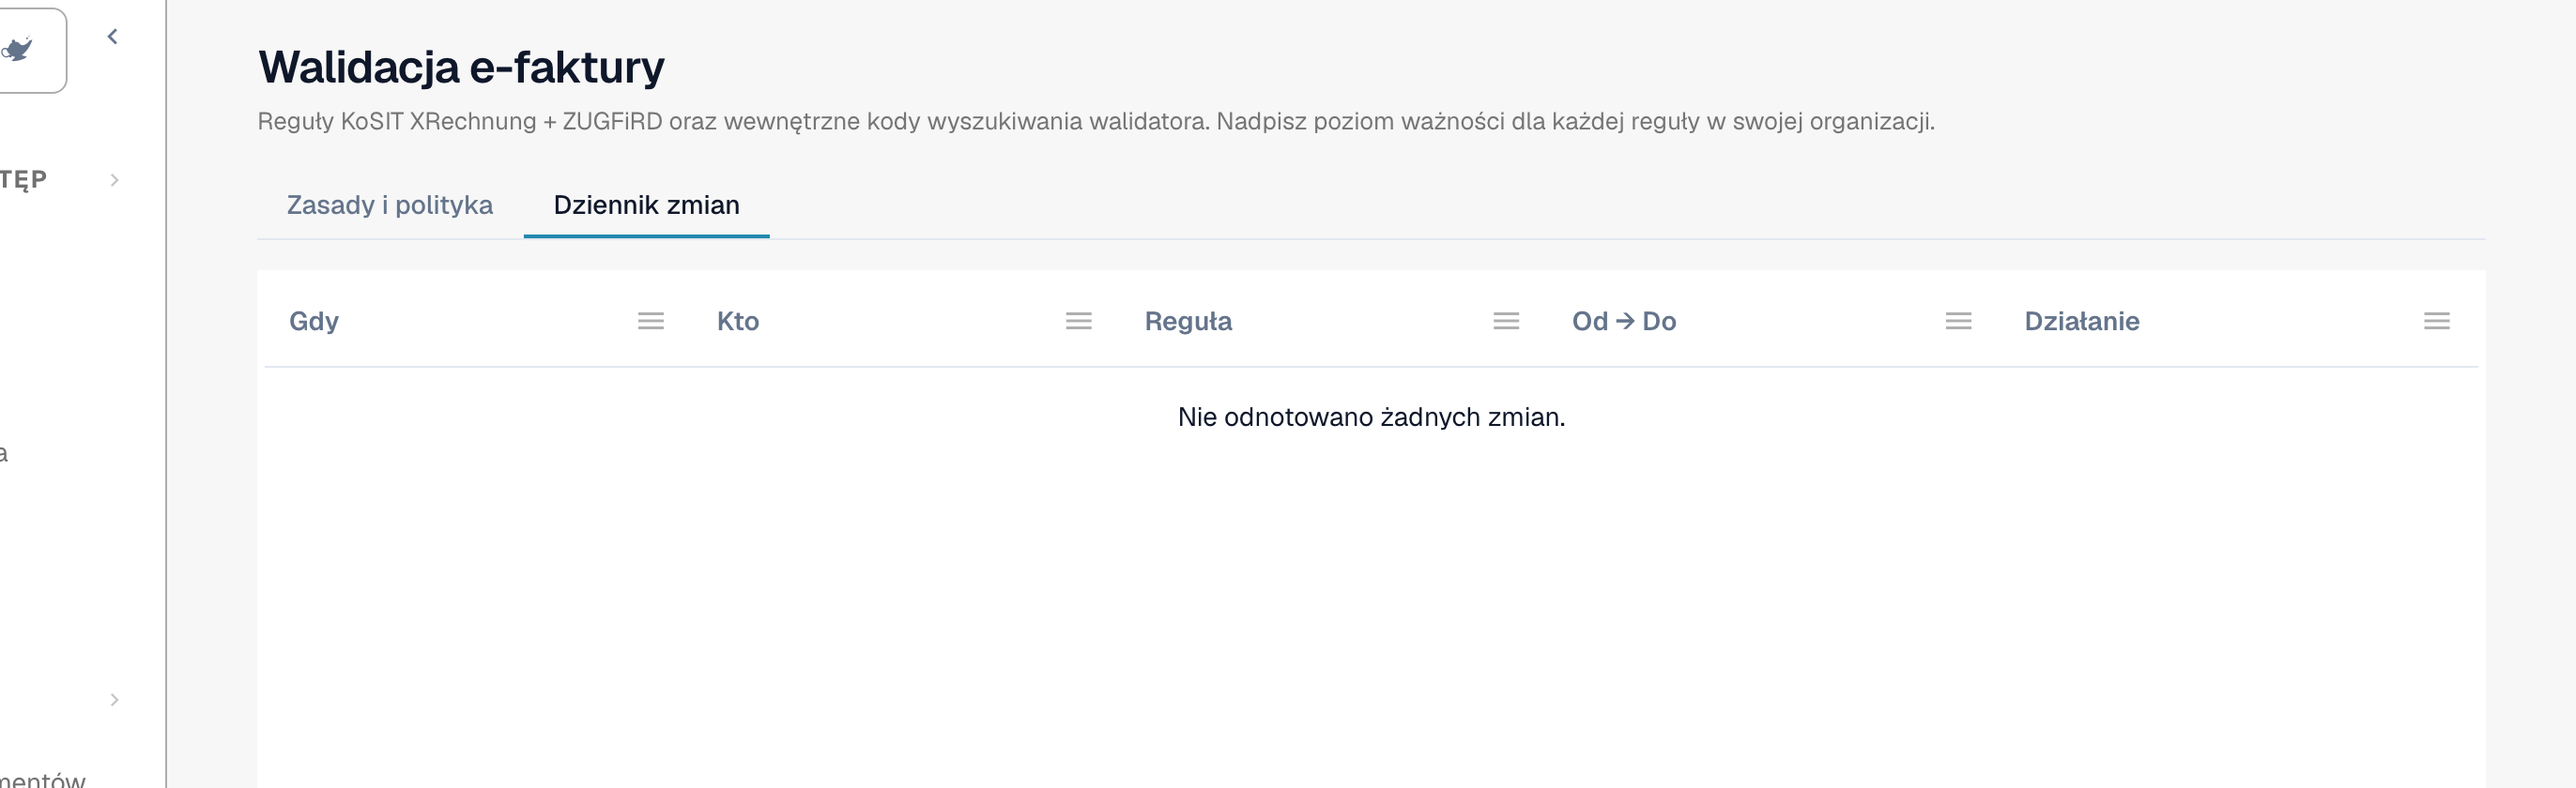
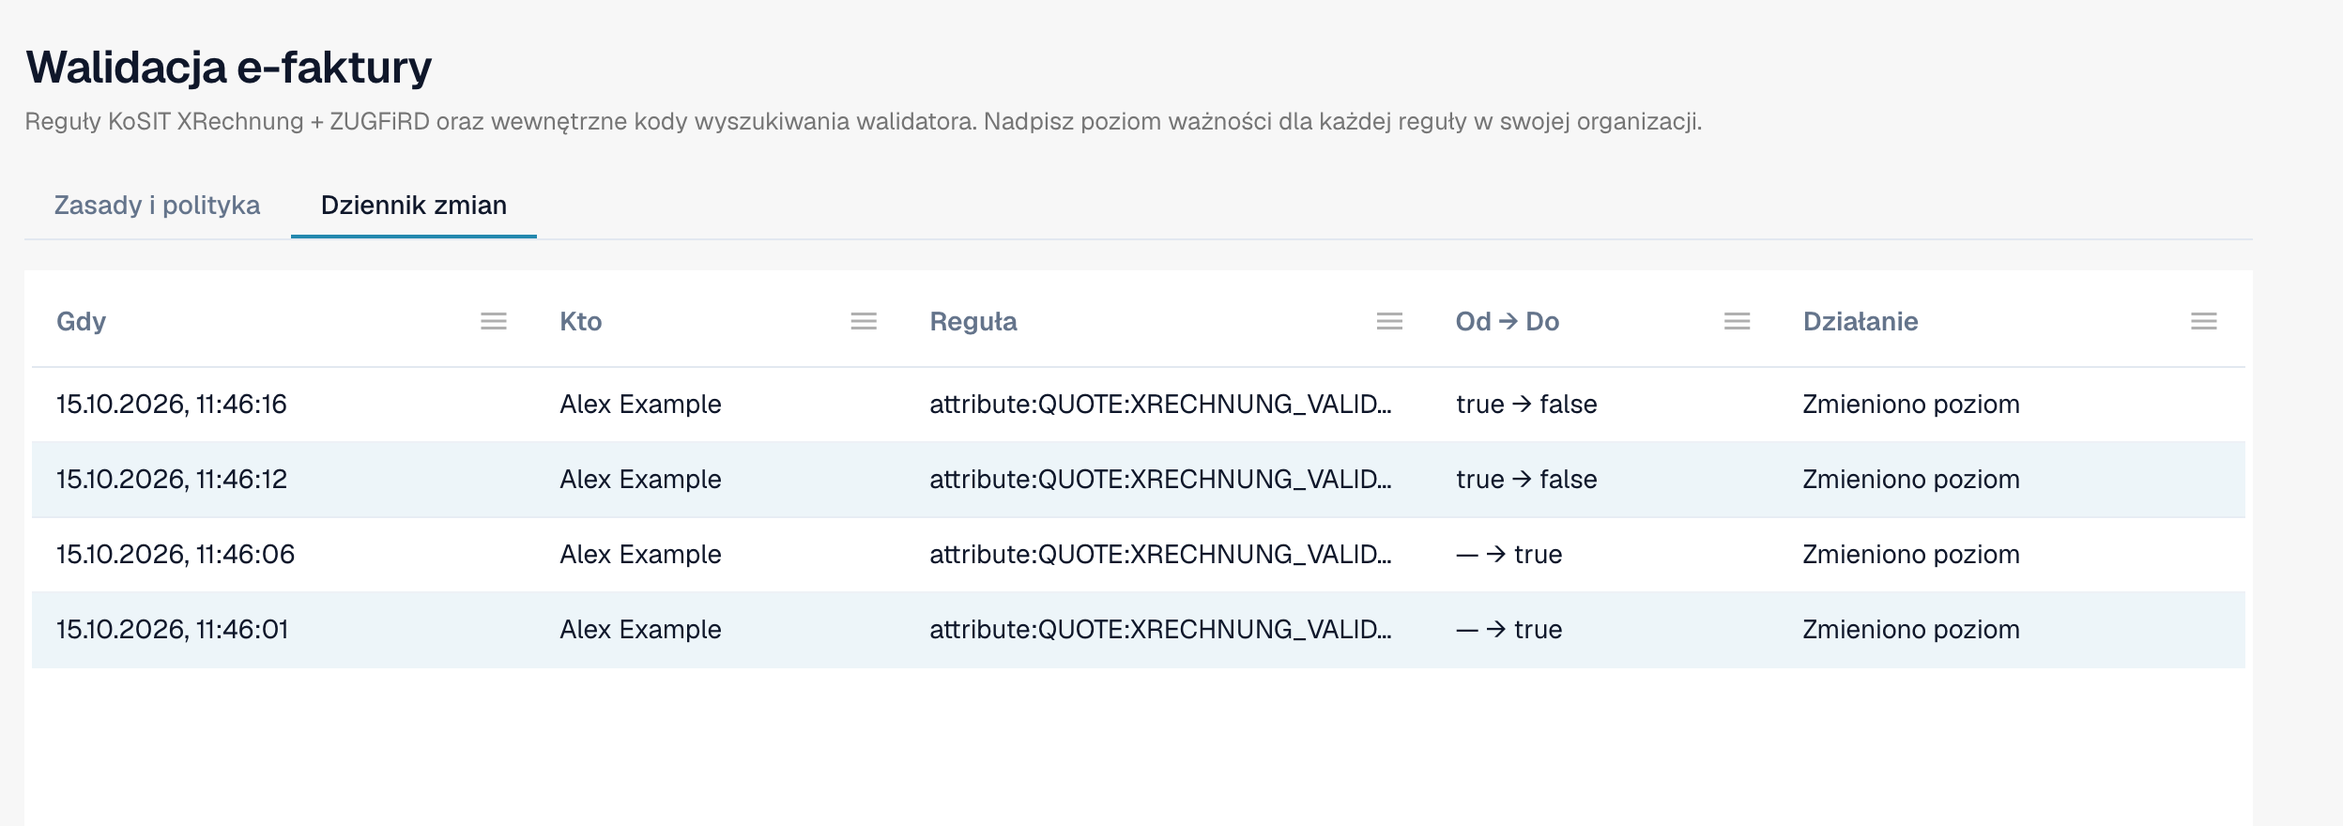
docs(pl): error screen page and change log screenshot (CORE-6410) (#814)
Claude-Session: https://claude.ai/code/session_01KNaeuhcTr3YU6A9NeVaSGs

diff --git a/readme/administration-and-setup/settings/document-processing/e-documents/validation-error-screen.md b/readme/administration-and-setup/settings/document-processing/e-documents/validation-error-screen.md
@@ -1,0 +1,52 @@
+# Ekran błędu odrzuconej e-faktury
+
+Gdy wgrasz błędną e-fakturę, DocBits jej nie gubi. Dokument dostaje status **Błąd**, a ekran błędu pokazuje, co jest nie tak, gdzie i co zrobić dalej. Ta strona pokazuje dwa przykłady: plik XML, który nie jest poprawnie sformułowany, oraz fakturę, która łamie regułę biznesową.
+
+> Faktura dostaje status **Błąd** tylko wtedy, gdy walidacja jest **włączona** i **blokująca** dla jej typu dokumentu. Zobacz [Walidacja dla każdego typu dokumentu](validation-per-document-type.md).
+
+## Przykład 1: plik XML jest uszkodzony
+
+Dostawca wysyła plik XML, w którym znacznik zamykający nie pasuje do znacznika otwierającego. Pliku nie można odczytać, więc DocBits zatrzymuje się na pierwszej kontroli, **L1 · Dobrze uformowana**.
+
+<figure><img src="../../../../.gitbook/assets/einvoice-error-xml-malformed-pl.png" alt="Ekran błędu dla pliku XML, który nie jest poprawnie sformułowany: XML po lewej stronie z zaznaczoną błędną linią, wyjaśnienie po prawej"><figcaption><p>Ekran błędu dla uszkodzonego pliku XML. Błędna linia jest zaznaczona w XML. Przykładowy plik z fikcyjnymi danymi.</p></figcaption></figure>
+
+Ekran ma dwie strony:
+
+* **Po lewej: plik XML.** DocBits pokazuje plik z numerami linii. Linia z problemem jest zaznaczona na czerwono. Przyciskami nad plikiem skopiujesz XML lub otworzysz go w nowej karcie.
+* **Po prawej: wyjaśnienie.** Karta **Odrzucony przez** wskazuje kontrolę, która zatrzymała plik (tutaj **L1 · Dobrze uformowana**), oraz kod reguły (tutaj `XML-PARSE`). Poniżej widzisz tytuł (*XML is not well-formed*), krótkie wyjaśnienie i blok **Następny krok**.
+
+Wybierz **Wyświetl szczegóły walidacji**, aby otworzyć pełny [raport walidacyjny](validation-report.md).
+
+<figure><img src="../../../../.gitbook/assets/einvoice-report-xml-malformed-pl.png" alt="Raport walidacyjny uszkodzonego pliku XML z wynikiem XML-PARSE"><figcaption><p>Raport uszkodzonego pliku: jeden błąd na poziomie 1 Składnia, z komunikatem technicznym i pozycją</p></figcaption></figure>
+
+Raport podaje dokładną pozycję (tutaj linia 5, kolumna 4081) i techniczny komunikat parsera XML. Wybierz **Pokaż w XML**, aby przejść do tej linii. Wskazówka **Jak naprawić** mówi, że należy poprosić nadawcę o poprawiony plik.
+
+## Przykład 2: faktura łamie regułę biznesową
+
+XML jest poprawny, ale brakuje wymaganego pola. Na przykład nie można zidentyfikować sprzedawcy, ponieważ brak identyfikatora sprzedawcy, identyfikatora rejestracyjnego lub identyfikatora VAT (reguła `BR-CO-26`).
+
+<figure><img src="../../../../.gitbook/assets/einvoice-error-view-pl.png" alt="Ekran błędu dla faktury, która łamie regułę biznesową"><figcaption><p>Ekran błędu dla błędu reguły biznesowej: warstwa <strong>L3 · Zasady biznesowe</strong>, kod reguły i następny krok</p></figcaption></figure>
+
+Tutaj karta wskazuje warstwę **L3 · Zasady biznesowe** i kod `BR-CO-26`. Raport wymienia wszystkie wyniki faktury, zobacz [Raport walidacyjny](validation-report.md).
+
+## Przyciski pod kartą
+
+| Przycisk | Co robi |
+| --- | --- |
+| **Ponowne uruchomienie przetwarzania** | Uruchamia przetwarzanie dokumentu ponownie, na przykład po zmianie ustawienia. Kontrola używa bieżących ustawień. |
+| **Wyświetl DocFlow** | Pokazuje przepływ pracy dokumentu. |
+| **Kopiuj szczegóły** | Kopiuje szczegóły błędu, na przykład do wiadomości dla administratora. |
+| **Utwórz bilet** | Otwiera zgłoszenie do wsparcia ze szczegółami błędu. |
+
+Wybierz **Pokaż szczegóły techniczne** na karcie, aby zobaczyć surowe informacje techniczne.
+
+## Co zrobić dalej
+
+* **Błędy:** poproś nadawcę o poprawioną fakturę lub [odrzuć dokument](validation-next-step-and-reject.md). Poprawiona faktura to nowy dokument.
+* **Tylko ostrzeżenia:** dokument nie jest blokowany. Możesz kontynuować.
+
+## Powiązane strony
+
+* [Raport walidacyjny](validation-report.md): wszystkie wyniki, poziom po poziomie.
+* [Następny krok i odrzucenie dokumentu](validation-next-step-and-reject.md)
+* [Walidacja dla każdego typu dokumentu](validation-per-document-type.md): włącz walidację i ustaw blokowanie.

diff --git a/readme/administration-and-setup/settings/document-processing/e-documents/validation-rules.md b/readme/administration-and-setup/settings/document-processing/e-documents/validation-rules.md
@@ -14,5 +14,6 @@ Strona **Walidacja e-faktury** (**Ustawienia → Dokumenty elektroniczne → Wal
 | [Wagi reguł](validation-rule-severities.md) | Tabela reguł: zmień wagę każdej reguły dla swojej organizacji. | Administratorzy organizacji |
 | [Walidacja dla każdego typu dokumentu](validation-per-document-type.md) | Włącz walidację (**Włączony**) i zdecyduj, czy nieudana kontrola zatrzymuje dokument (**Bloking**). Każda zmiana wymaga potwierdzenia. | Administratorzy organizacji |
 | [Dziennik zmian](validation-change-log.md) | Każda zmiana ustawień: kiedy, kto, jaka reguła, od → do. | Administratorzy organizacji |
+| [Ekran błędu odrzuconej e-faktury](validation-error-screen.md) | Co widzisz po wgraniu błędnego pliku XML: wyjaśnienie, błędna linia i następny krok. | Wszyscy, którzy przetwarzają faktury |
 | [Raport walidacyjny](validation-report.md) | Co widzi użytkownik, gdy faktura nie przejdzie kontroli: wyniki prostym językiem. Raport otwiera się z dokumentu, a nie z tej strony. | Wszyscy, którzy przetwarzają faktury |
 | [Następny krok i odrzucenie dokumentu](validation-next-step-and-reject.md) | Co zrobić po przeczytaniu raportu, pobieranie raportu i **Odrzuć dokument**. | Wszyscy, którzy przetwarzają faktury |

diff --git a/readme/SUMMARY.md b/readme/SUMMARY.md
@@ -441,6 +441,7 @@
         * [Wagi reguł](administration-and-setup/settings/document-processing/e-documents/validation-rule-severities.md)
         * [Walidacja dla każdego typu dokumentu](administration-and-setup/settings/document-processing/e-documents/validation-per-document-type.md)
         * [Dziennik zmian](administration-and-setup/settings/document-processing/e-documents/validation-change-log.md)
+        * [Ekran błędu odrzuconej e-faktury](administration-and-setup/settings/document-processing/e-documents/validation-error-screen.md)
         * [Raport walidacyjny](administration-and-setup/settings/document-processing/e-documents/validation-report.md)
         * [Następny krok i odrzucenie dokumentu](administration-and-setup/settings/document-processing/e-documents/validation-next-step-and-reject.md)
       * [Routing powiadomień](administration-and-setup/settings/document-processing/e-documents/notification-routing.md)

diff --git a/readme/administration-and-setup/settings/document-processing/e-documents/validation-report.md b/readme/administration-and-setup/settings/document-processing/e-documents/validation-report.md
@@ -1,6 +1,6 @@
 # Raport walidacyjny
 
-Gdy DocBits odrzuca e-fakturę, możesz dokładnie przeczytać dlaczego. **Raport walidacyjny** wymienia każdy wynik prostym językiem, mówi, co poprawić, i pokazuje następny krok. Otwierasz go z dokumentu, a nie z ustawień.
+Gdy DocBits odrzuca e-fakturę, możesz dokładnie przeczytać dlaczego. **Raport walidacyjny** wymienia każdy wynik prostym językiem, mówi, co poprawić, i pokazuje następny krok. Otwierasz go z dokumentu, a nie z ustawień. Ekran, na którym go znajdziesz, opisuje strona [Ekran błędu odrzuconej e-faktury](validation-error-screen.md).
 
 Ta strona jest dla osób, które przetwarzają faktury. Administratorzy ustawiają reguły na stronie [Walidacja e-faktury](validation-rules.md) i wybierają dla każdego typu dokumentu, czy nieudana kontrola blokuje fakturę, zobacz [Walidacja dla każdego typu dokumentu](validation-per-document-type.md).
 

diff --git a/readme/administration-and-setup/settings/document-processing/e-documents/validation-change-log.md b/readme/administration-and-setup/settings/document-processing/e-documents/validation-change-log.md
@@ -4,7 +4,7 @@
 
 Otwórz kartę **Dziennik zmian** obok karty **Zasady i polityka**.
 
-<figure><img src="../../../../.gitbook/assets/einvoice-validation-change-log-pl.png" alt="Karta Dziennik zmian z kolumnami Gdy, Kto, Reguła, Od → Do i Działanie"><figcaption><p>Dziennik zmian organizacji, w której nie było jeszcze żadnych zmian</p></figcaption></figure>
+<figure><img src="../../../../.gitbook/assets/einvoice-validation-change-log-pl.png" alt="Karta Dziennik zmian z kolumnami Gdy, Kto, Reguła, Od → Do i Działanie"><figcaption><p>Dziennik zmian z czterema przykładowymi wpisami. Nazwa użytkownika jest zastąpiona przykładową nazwą.</p></figcaption></figure>
 
 | Kolumna | Co pokazuje |
 | --- | --- |
